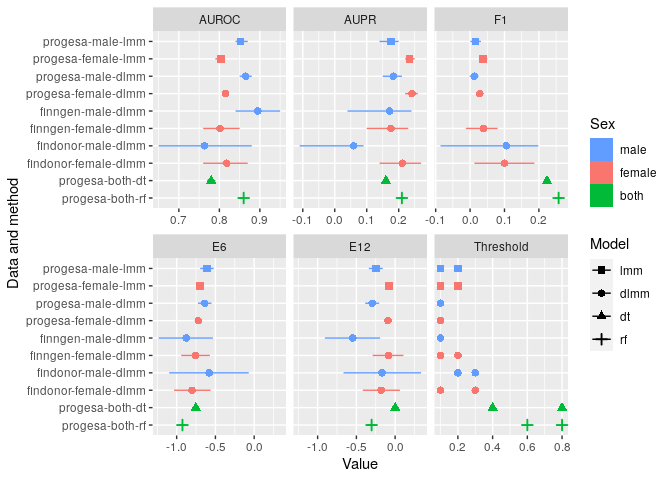
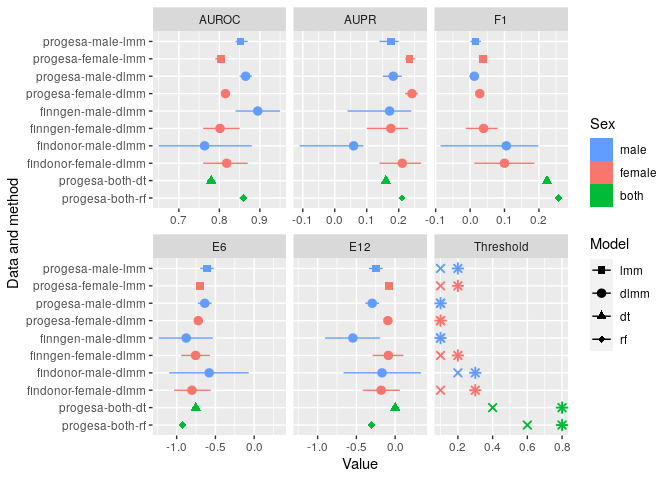
Polished article plots

diff --git a/src/article_figures.md b/src/article_figures.md
@@ -98,17 +98,19 @@ algorithm.
       plot <- result %>% 
         ggplot() +     
         geom_vline(aes(xintercept=0), color="lightgray") +
-        ggstance::geom_pointrangeh(aes(y=Pretty, x=mean, xmin=low, xmax=high, color=gender),
-                                   position=position_dodge2(width=0.8, padding=0.1), size=0.25) + # ggstance is required to make legend keys horizontal
         geom_rect(data=combined_variables %>% filter(stripe==1), 
                   mapping=aes(ymax = as.numeric(Pretty) + 0.5,
                       ymin = as.numeric(Pretty) - 0.5),
                       #xmin = -Inf,
                       #xmax = Inf,
                       fill = "gray", xmin=-Inf, xmax=Inf, alpha = 0.1, show.legend = FALSE, colour=NA) +
+        ggstance::geom_pointrangeh(aes(y=Pretty, x=mean, xmin=low, xmax=high, color=gender),
+                                   position=position_dodge2(width=0.8, padding=0.1), size=0.25) + # ggstance is required to make legend keys horizontal
         labs(title="", #title="Effects sizes of variables on Hb prediction",
              x="Regression coefficient", y=NULL, colour="Sex") +
         scale_colour_discrete(drop=FALSE, breaks = c("male", "female")) + 
+        scale_y_discrete() + # !!!!! This is important. Solves the problem with position_dodge2 and the order of rect and pointrange geoms !!!!!!
+                             # Otherwise following error results: Error: Discrete value supplied to continuous scale
         #guides(colour = guide_legend(reverse = TRUE)) + # Reverse the order of keys in the legend
         #theme_gray(base_size = base_size) + theme(legend.position = "bottom", legend.direction = "horizontal")
         theme_classic(base_size = base_size) + theme(legend.position = "bottom", legend.direction = "horizontal")
@@ -126,19 +128,21 @@ algorithm.
                  
       varimp.plot <- var_imp %>% 
         ggplot() + 
+        geom_rect(data=combined_variables %>% filter(stripe==1),
+                  mapping=aes(ymax = as.numeric(Pretty) + 0.5,
+                              ymin = as.numeric(Pretty) - 0.5),
+                  #xmin = -Inf,
+                  #xmax = Inf,
+                  #fill = stripe), 
+                  xmin=-Inf, xmax=Inf, alpha = 0.1, colour=NA, fill="gray", show.legend = FALSE, inherit.aes = FALSE) +
         ggstance::geom_pointrangeh(aes(y=Pretty, x=Importance, xmin=0, xmax=Importance, colour = gender), # ggstance is required to make legend keys horizontal
                                    position=position_dodge2(width=0.8, padding=0.1), size=0.25, inherit.aes = FALSE) +   
                                    #colour = hue_pal()(3)[2], size=0.25) +
-          geom_rect(data=combined_variables %>% filter(stripe==1),
-                  mapping=aes(ymax = as.numeric(Pretty) + 0.5,
-                        ymin = as.numeric(Pretty) - 0.5),
-                        #xmin = -Inf,
-                        #xmax = Inf,
-                        #fill = stripe), 
-                  xmin=-Inf, xmax=Inf, alpha = 0.1, colour=NA, fill="gray", show.legend = FALSE, inherit.aes = FALSE) +
         labs(y=NULL, colour="Sex") + 
         guides(y="none") +
         scale_colour_discrete(drop=FALSE, breaks=c("both")) +
+        scale_y_discrete() + # !!!!! This is important. Solves the problem with position_dodge2 and the order of rect and pointrange geoms !!!!!!
+                             # Otherwise following error results: Error: Discrete value supplied to continuous scale
         #theme_gray(base_size = base_size)
         theme_classic(base_size = base_size) + theme(legend.position = "bottom", legend.direction = "horizontal")
 
@@ -199,7 +203,9 @@ algorithm.
     ## Warning: Removed 10 rows containing missing values (geom_pointrangeh).
 
 ![](article_figures_files/figure-markdown_strict/unnamed-chunk-4-1.png)
-\#\# Alternative effect sizes and importances of variables
+
+Alternative effect sizes and importances of variables
+-----------------------------------------------------
 
     alternative_create_forest_importance_plot <- function(male_posterior, female_posterior, variables,
                                                filename=NULL,
@@ -221,66 +227,66 @@ algorithm.
       var_imp <- varimp %>%
         mutate(Pretty=fct_rev(Pretty),
                mean=Importance,
-               low=0,
+               low=ifelse(is.na(Importance), NA, 0),
                high=Importance)
 
       final <- bind_rows(`Regression coefficient`=result, Importance=var_imp, .id="method") %>%
-        mutate(method=factor(method, levels=c("Regression coefficient", "Importance")))
+        mutate(method=factor(method, levels=c("Regression coefficient", "Importance"))) %>%
+        select(-Importance, -Variable, stripe)
+               
+      print(combined_variables)
       
       plot <- final %>% 
         ggplot() +     
         geom_vline(aes(xintercept=0), color="lightgray") +
-        ggstance::geom_pointrangeh(aes(y=Pretty, x=mean, xmin=low, xmax=high, color=gender),
-                                   position=position_dodge2(width=0.8, padding=0.1), size=0.25) + # ggstance is required to make legend keys horizontal
-        geom_rect(data=combined_variables %>% filter(stripe==1), 
+        # ggstance is required to make legend keys horizontal
+        geom_rect(data=combined_variables %>% filter(stripe==1),
                   mapping=aes(ymax = as.numeric(Pretty) + 0.5,
                               ymin = as.numeric(Pretty) - 0.5),
-                  fill = "gray", xmin=-Inf, xmax=Inf, alpha = 0.1, show.legend = FALSE, colour=NA) +
-        labs(title=NULL,
-             x=NULL, y=NULL, colour="Sex") +
+                  fill = "gray", xmin=-Inf, xmax=Inf, alpha = 0.1, show.legend = FALSE, colour=NA, inherit.aes = FALSE) +
+        ggstance::geom_pointrangeh(mapping=aes(y=Pretty, x=mean, xmin=low, xmax=high, color=gender),
+                                   position=position_dodge2(width=0.8, padding=0.1), 
+                                   size=0.25,  
+                                   inherit.aes = FALSE) +
+        labs(title=NULL, x=NULL, y=NULL, colour="Sex") +
         scale_colour_discrete(drop=FALSE, breaks = c("male", "female", "both")) + 
+        scale_y_discrete() + # !!!!! This is important. Solves the problem with position_dodge2 and the order of rect and pointrange geoms !!!!!!
+                             # Otherwise following error results: Error: Discrete value supplied to continuous scale
         facet_wrap("method", scales="free_x") +
         theme_classic(base_size = base_size) + 
         theme(legend.position = "bottom", legend.direction = "horizontal", strip.background = element_rect(fill = NULL, color = "white", size = 1))
       
-                 
-    #    ggstance::geom_pointrangeh(aes(y=Pretty, x=Importance, xmin=0, xmax=Importance, colour = gender), # ggstance is required to make legend keys horizontal
-    #                               position=position_dodge2(width=0.8, padding=0.1), size=0.25, inherit.aes = FALSE) +   
-         
-        #inherit.aes = FALSE) +
-    #    guides(y="none") +
+                
 
       return(list(plot=plot, final=final))
     }
 
-    g <- alternative_create_forest_importance_plot(male_posterior, female_posterior, variables, filename=filename)
+    res <- alternative_create_forest_importance_plot(male_posterior, female_posterior, variables, filename=filename)
 
+    ## # A tibble: 22 x 2
+    ##    Pretty                               stripe
+    ##    <fct>                                <fct> 
+    ##  1 Days to previous full blood donation 1     
+    ##  2 Age                                  0     
+    ##  3 Previous donation deferred           1     
+    ##  4 Year                                 0     
+    ##  5 Warm season                          1     
+    ##  6 Consecutive deferrals                0     
+    ##  7 Recent donations                     1     
+    ##  8 Recent deferrals                     0     
+    ##  9 Hour                                 1     
+    ## 10 Previous Hb                          0     
+    ## # … with 12 more rows
+
+    g <- res$plot
+    final <- res$final
     if (save_figs)
       ggsave(filename="alternative_effect_size_importance.pdf", title="Performance forest plot", path=fig_path, plot=g, dpi=600, units="mm", width=180)
     g
 
-    ## $plot
-
     ## Warning: Removed 13 rows containing missing values (geom_pointrangeh).
 
 ![](article_figures_files/figure-markdown_strict/unnamed-chunk-6-1.png)
-
-    ## 
-    ## $final
-    ## # A tibble: 63 x 9
-    ##    method   Pretty  stripe gender     mean      low     high Variable Importance
-    ##    <fct>    <fct>   <fct>  <fct>     <dbl>    <dbl>    <dbl> <chr>         <dbl>
-    ##  1 Regress… Days t… 1      male    0.0152   0.00691  2.41e-2 <NA>             NA
-    ##  2 Regress… Days t… 1      female  0.0446   0.0353   5.38e-2 <NA>             NA
-    ##  3 Regress… Age     0      male    0.00742 -0.0190   3.49e-2 <NA>             NA
-    ##  4 Regress… Age     0      female  0.198    0.176    2.22e-1 <NA>             NA
-    ##  5 Regress… Previo… 1      male    0.171    0.0523   3.03e-1 <NA>             NA
-    ##  6 Regress… Previo… 1      female -0.0224  -0.0807   3.81e-2 <NA>             NA
-    ##  7 Regress… Year    0      male   -0.0166  -0.0299  -3.66e-3 <NA>             NA
-    ##  8 Regress… Year    0      female -0.0130  -0.0245  -2.21e-4 <NA>             NA
-    ##  9 Regress… Warm s… 1      male   -0.0684  -0.0758  -6.11e-2 <NA>             NA
-    ## 10 Regress… Warm s… 1      female -0.0638  -0.0715  -5.69e-2 <NA>             NA
-    ## # … with 53 more rows
 
 Performance forest plot
 -----------------------
@@ -300,7 +306,9 @@ Performance forest plot
         mutate(low=value, 
                high=value,
                sex=factor(str_split_fixed(Id, "-", 3)[,2], levels=c("female", "both", "male")),
-               model=factor(str_split_fixed(Id, "-", 3)[,3]))
+               #model=factor(str_split_fixed(Id, "-", 3)[,3])
+               model=rep(c("t6", "t12"), each=length(ids))
+               )
       return(t)
     }
 
@@ -315,7 +323,8 @@ Performance forest plot
       
       thresholds <- get_threshold_df()
       df <- bind_rows(df, thresholds)
-      
+      df <- df %>% 
+        mutate(model = factor(model, levels=c("lmm", "dlmm", "dt", "rf", "t6", "t12")))
       # Below we use a dummy table and geom_blank to have the same xlimits for E6 and E12 panels
       xrange <- as.numeric(df %>% filter(type %in% c("E6", "E12")) %>% summarise(low=min(low), high=max(high))) # range of x-axis for E6 and E12
       xrange <- rep(xrange, 2)
@@ -335,7 +344,7 @@ Performance forest plot
         labs(x="Value", y="Data and method", colour="Sex", shape="Model") + 
         #scale_colour_manual(breaks = c("male", "female", "both"), values=c("yellow", "brown", "black"), aesthetics = c("color", "fill", "shape")) +
         scale_colour_discrete(breaks = c("male", "female", "both")) +
-        scale_shape_discrete(breaks=c("lmm", "dlmm", "dt", "rf")) +
+        scale_shape_manual(breaks=c("lmm", "dlmm", "dt", "rf"), values=c("square", "circle", "triangle", "diamond", "cross", "asterisk")) +
         #scale_colour_manual(values = c("female" = 1, "male" = 2, "both" = 3)) +
         guides(colour = guide_legend(override.aes = list(shape = 15, linetype=0, size=key_size))) +
         #guides(colour = guide_legend(override.aes = list(shape = 15, linetype=0))) +
@@ -343,10 +352,10 @@ Performance forest plot
         geom_blank(data=dummy) +
         facet_wrap("type", scales="free_x")
       #ggsave(filename="~/FRCBS/results-for-eba-paper/forest_plot.pdf", plot=g, dpi=600, units="mm", width=180)
-      return(g)
+      return(list(g=g, df=df))
     }
 
-    g <- create_performance_forest_plot()
+    res <- create_performance_forest_plot()
 
     ## Parsed with column specification:
     ## cols(
@@ -357,6 +366,8 @@ Performance forest plot
     ##   high = col_double()
     ## )
 
+    g <- res$g
+    df <- res$df
     if (save_figs)
       ggsave(filename="performance_forest_plot.pdf", title="Performance forest plot", path=fig_path, plot=g, dpi=600, units="mm", width=180)
     g
@@ -364,7 +375,9 @@ Performance forest plot
     ## Warning: Removed 1 rows containing missing values (geom_pointrangeh).
 
 ![](article_figures_files/figure-markdown_strict/unnamed-chunk-8-1.png)
-\#\# Calibration plots
+
+Calibration plots
+-----------------
 
     calibration_plot <- function(df, use_my_method=FALSE) {
       if (use_my_method) {
@@ -470,3 +483,76 @@ Classification scatter plot for male Finngen DLMM
     ## `geom_smooth()` using method = 'gam' and formula 'y ~ s(x, bs = "cs")'
 
 ![](article_figures_files/figure-markdown_strict/unnamed-chunk-11-1.png)
+
+    jarkko_test <- function(male_posterior, female_posterior, variables,
+                                               filename=NULL,
+                                               width = 180,  # width of the combined figure in millimetres
+                                              base_size = 11
+    ) {
+      rrfFit_roc <- load_single("~/FRCBS/interval_prediction/results/rrfFit_roc.rdata")
+
+      combined_variables <- tibble(Pretty=c(variables, "Life time donations", "Sex", "First Hb")) %>%
+        mutate(stripe=factor(row_number()%%2),    # this is used to make the gray/white background
+               Pretty=factor(Pretty, levels=Pretty))
+
+      result <- get_dlmm_df(male_posterior, female_posterior, variables, combined_variables)
+      varimp <- get_rf_df(rrfFit_roc, descript, combined_variables)
+
+      result <- result %>%
+        mutate(Pretty=fct_rev(Pretty))
+
+      var_imp <- varimp %>%
+        mutate(Pretty=fct_rev(Pretty),
+               mean=Importance,
+               low=ifelse(is.na(Importance), NA, 0),
+               high=Importance)
+
+      final <- bind_rows(`Regression coefficient`=result, Importance=var_imp, .id="method") %>%
+        mutate(method=factor(method, levels=c("Regression coefficient", "Importance"))) %>%
+        select(-Importance, -Variable, stripe)
+
+    #   final <- tibble(
+    #             method = c("Regression coefficient",
+    #                        "Regression coefficient","Importance"),
+    #             Pretty = factor(c("Days to previous full blood donation","Days to previous full blood donation",
+    #                        "Days to previous full blood donation")),
+    #             #gender = c("male", "female", "both"),
+    #               mean = c(0.0152091681221149,
+    #                        0.0445741103338152,0.0255604042298423),
+    #                low = c(0.00691102953212081, 0.0353192308283623, 0),
+    #               high = c(0.0240855557569598,
+    #                        0.0537929726515129,0.0255604042298423)
+    # )
+      
+      #combined_variables <- tibble(Pretty=factor("Days to previous full blood donation"), stripe=factor(1))
+      
+      print(final)         
+      print(combined_variables)
+      vars <- c("Days to previous full blood donation", "Age", "Previous donation deferred", "Year")
+      plot <- final %>% #filter(Pretty %in% vars) %>%
+        ggplot(aes(color=gender)) +
+        geom_rect(data=combined_variables %>% filter(stripe==1),
+                  mapping=aes(#ymax = as.numeric(Pretty) + 0.5,
+                              #ymin = as.numeric(Pretty) - 0.5
+                              ymax = as.numeric(Pretty) + 0.5,
+                              ymin = as.numeric(Pretty) - 0.5),
+                  fill = "blue", 
+                  #position="identity",
+                  xmin=-Inf, xmax=Inf, alpha = 0.1, inherit.aes = FALSE) +
+        ggstance::geom_pointrangeh(#data=final, 
+                                   mapping=aes(y=Pretty, x=mean, xmin=low, xmax=high),
+                                   #position=position_dodge2(0.8)
+                                   position=position_dodge2(width=0.8, padding=0.1)
+                                   ) +
+        scale_y_discrete() +
+        facet_wrap("method", scales = "free_x") +
+        #coord_flip() +
+        theme_classic(base_size = base_size) 
+
+      return(list(plot=plot, final=final))
+    }
+
+    res <- jarkko_test(male_posterior, female_posterior, variables, filename=filename)
+    final <- res$final
+    g <- res$plot
+    g
